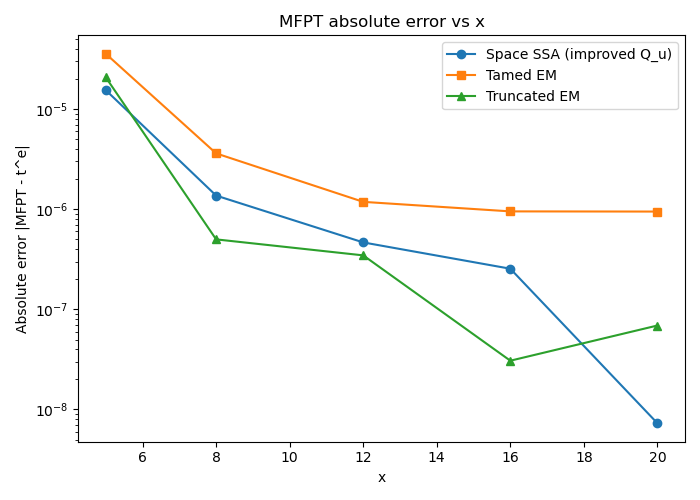
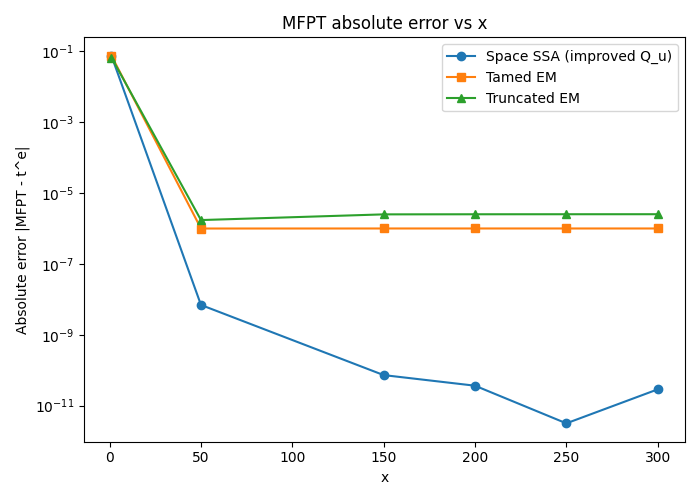
改变初值的数值

diff --git a/comparsion/comparsion.py b/comparsion/comparsion.py
@@ -156,7 +156,7 @@ def run_experiment(x_list: List[float],
     return results
 
 # Run demo
-x_list = [1.0, 50.0, 150.0, 200.0, 250.0, 300.0]
+x_list = [1.0, 50.0, 100.0, 150.0, 200.0, 250.0]
 delta = 0.1
 h = 1e-3
 dt_tamed = 1e-5
